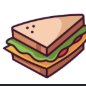
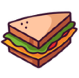
free sinewich project page v1

diff --git a/projects/Free-Sinewich/index.html b/projects/Free-Sinewich/index.html
@@ -123,9 +123,8 @@
 <section class="hero teaser">
   <div class="container is-max-desktop">
     <div class="hero-body">
-      <img src="./assets/sinewich_teaser.png" style="width:100%">
+      <img src="./assets/comparison.png" style="width:100%">
       <h2 class="subtitle has-text-centered" style="margin-top:20px;">
-        A lightweight, efficient, frequency-modulated PEFT module.
       </h2>
     </div>
   </div>
@@ -140,20 +139,17 @@
 
         <h2 class="title is-3">Abstract</h2>
         <div class="content has-text-justified">
-          <!-- <p>
-            Free Sinewich introduces a frequency-modulated adaptive weight broadcasting mechanism
-            for parameter-efficient multi-task learning. Instead of storing task-specific adapters,
-            we modulate a single shared base matrix with continuous sine-based frequency signals,
-            enabling dynamic task adaptation with effectively zero extra parameters.
-          </p>
-
           <p>
-            The method is lightweight, fast, and achieves strong performance across vision tasks
-            such as semantic segmentation, depth estimation, normals, and edges, outperforming
-            prior PEFT methods like LoRA, MTLoRA, and TADFormer under identical training budgets.
-          </p> -->
+          Multi-task learning (MTL) aims to equip a single model with the ability to solve multiple tasks efficiently; 
+          however, current parameter-efficient fine-tuning (PEFT) methods remain largely limited to single-task adaptation. 
+          We introduce <strong>Free Sinewich</strong>, a parameter-efficient multi-task learning framework that achieves efficient weight reuse through frequency switching. 
+          A lightweight Clock Net first determines task-dependent frequency with negligible overhead (<strong>Free</strong>). 
+          These frequencies modulate a <strong>Sine-AWB (Sinewich)</strong> layer, where low-rank factors and convolutional priors are combined into a single kernel and transformed via an elementwise sinusoidal transformation to produce task-specialized weights. 
+          Theoretically, sine modulation enhances the rank of low-rank adapters, while frequency separation decorrelates the weights of different tasks. 
+          On dense prediction benchmarks, Free Sinewich achieves state-of-the-art performance-efficiency trade-offs (e.g., up to +5.39\% improvement over single-task fine-tuning with only 6.53M trainable parameters), 
+          offering a compact and scalable paradigm based on frequency-based parameter sharing. Our code is publicly available. 
+          </p>
         </div>
-
       </div>
     </div>
   </div>
@@ -163,10 +159,128 @@
 <!-- VIDEO OR FIGURE -->
 <section class="section">
   <div class="container is-max-desktop has-text-centered">
+
     <h2 class="title is-3">Method Overview</h2>
-    <img src="./assets/sinewich_method.png" style="max-width:100%;border-radius:10px;">
+
+    <div class="columns is-centered" style="margin-top:20px;">
+        
+        <!-- <img src="./assets/overall_structure.png"
+             style="width:100%; border-radius:10px;">
+        <p style="margin-top:8px;"><strong>A</strong></p>
+        <img src="./assets/task-agnostic.png"
+             style="width:100%; border-radius:10px;">
+        <p style="margin-top:8px;"><strong>B</strong></p>  -->
+        <img src="./assets/task-specific.png"
+             style="width:100%; border-radius:10px;">
+        <p style="margin-top:8px;"></p>
+
+    </div>
+
   </div>
 </section>
+
+
+
+
+<section class="hero is-light is-small">
+  <div class="hero-body">
+    <div class="container">
+      <div id="semseg-carousel" class="carousel results-carousel"></div>
+    </div>
+  </div>
+</section>
+
+<script>
+const base = "./assets/semseg/";
+
+const semseg_files = [
+  "2008_000026",
+  "2008_000806",
+  "2008_001264",
+  "2008_002870",
+];
+
+function chunk(arr, size) {
+  const out = [];
+  for (let i = 0; i < arr.length; i += size) {
+    out.push(arr.slice(i, i + size));
+  }
+  return out;
+}
+
+function buildSemsegSlides() {
+  let slides = "";
+  const grouped = chunk(semseg_files, 2);
+
+  grouped.forEach(rowIDs => {
+    slides += `
+      <div class="item" style="padding:20px;">
+
+        <!-- FIXED HEADER (now visible!) -->
+        <div style="
+          width:100%;
+          display:flex;
+          justify-content:center;
+          gap:25px;
+          margin-bottom:15px;
+          font-weight:700;
+          font-size:1.55rem;
+        ">
+          <div style="width:240px; text-align:center;">Input Image</div>
+          <div style="width:240px; text-align:center;">TADFormer</div>
+          <div style="width:240px; text-align:center;">Free Sinewich</div>
+          <div style="width:240px; text-align:center;">Ground Truth</div>
+        </div>
+
+        <!-- 2 rows per slide -->
+        ${rowIDs.map(id => `
+          <div style="
+            width:100%;
+            display:flex;
+            justify-content:center;
+            gap:25px;
+            margin-bottom:25px;
+          ">
+
+            <img src="${base}input_image/${id}.jpg"
+                 style="width:240px; height:240px; object-fit:cover; border-radius:6px;">
+
+            <img src="${base}tadformer/${id}.png"
+                 style="width:240px; height:240px; object-fit:cover; border-radius:6px;">
+
+            <img src="${base}free_sinewich/${id}.png"
+                 style="width:240px; height:240px; object-fit:cover; border-radius:6px;">
+
+            <img src="${base}gt/${id}.png"
+                 style="width:240px; height:240px; object-fit:cover; border-radius:6px;">
+
+          </div>
+        `).join("")}
+
+      </div>
+    `;
+  });
+
+  document.querySelector("#semseg-carousel").innerHTML = slides;
+}
+
+document.addEventListener('DOMContentLoaded', () => {
+  buildSemsegSlides();
+
+  bulmaCarousel.attach('#semseg-carousel', {
+    slidesToScroll: 1,
+    slidesToShow: 1,
+    loop: true,
+    pagination: true,
+    autoplay: false
+  });
+});
+</script>
+
+
+
+
+
 
 
 <!-- BIBTEX -->

diff --git a/projects/Free-Sinewich/static/js/index.js b/projects/Free-Sinewich/static/js/index.js
@@ -76,3 +76,25 @@ $(document).ready(function() {
     bulmaSlider.attach();
 
 })
+
+document.addEventListener('DOMContentLoaded', function() {
+  // Initialize the carousel
+  bulmaCarousel.attach('#results-carousel', {
+    slidesToScroll: 1,
+    slidesToShow: 1,
+    pagination: true,
+    loop: true,
+    autoplay: false
+  });
+});
+
+document.addEventListener('DOMContentLoaded', function() {
+  // Initialize the depth estimation carousel
+  bulmaCarousel.attach('#depth-results-carousel', {
+    slidesToScroll: 1,
+    slidesToShow: 1,
+    pagination: true,
+    loop: true,
+    autoplay: false
+  });
+});
